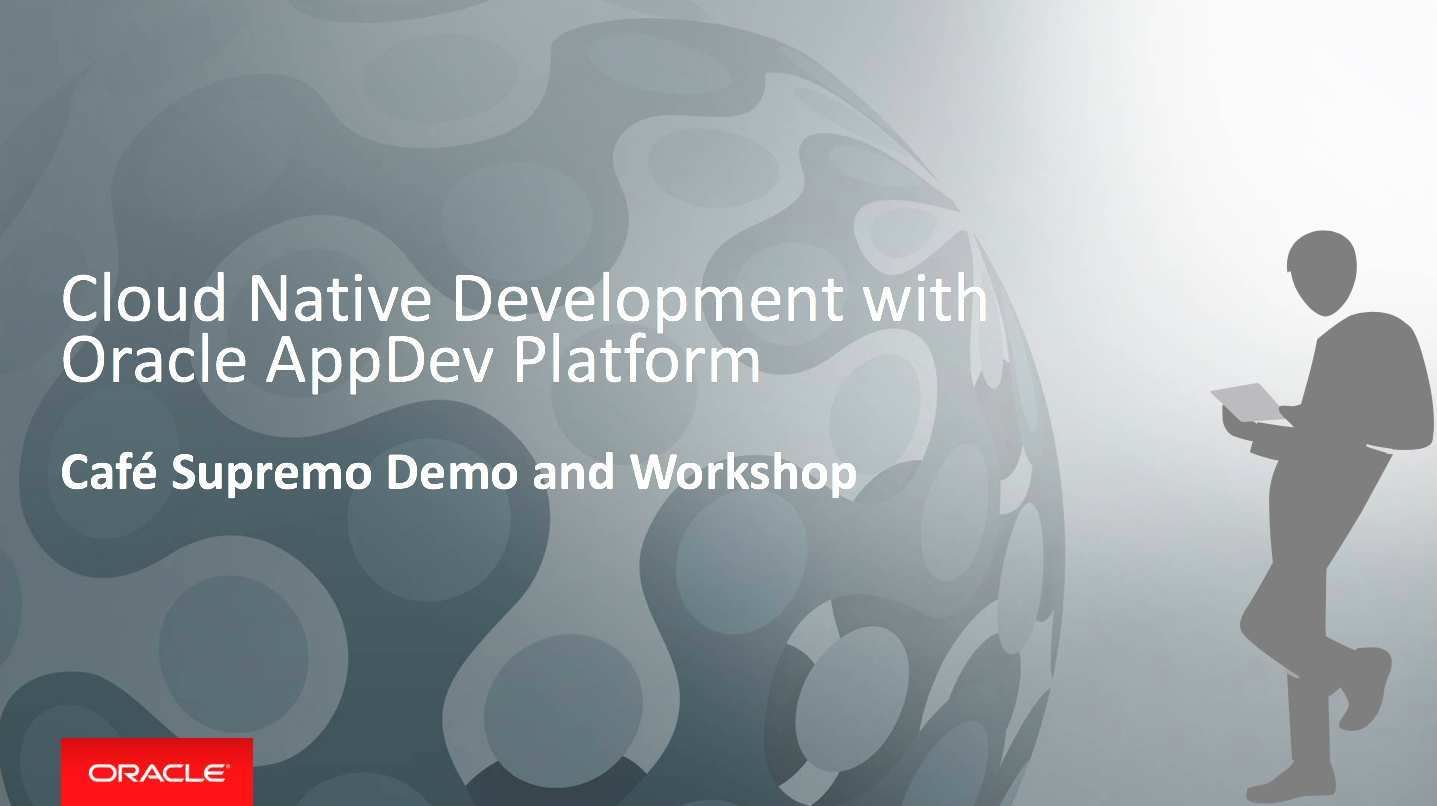
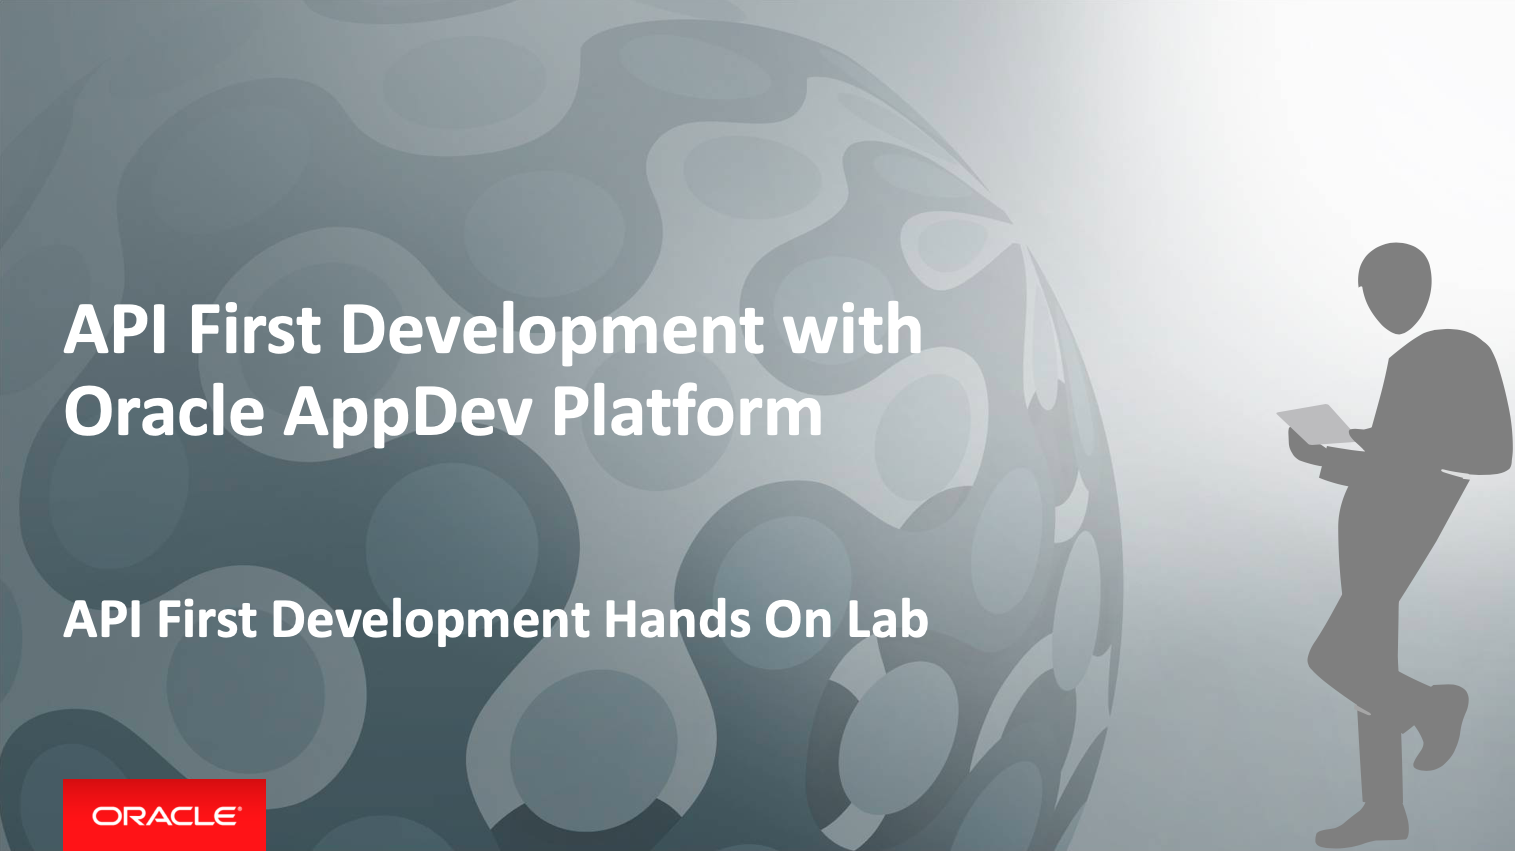
Updated rest of labs to reflect lab 400

diff --git a/README.md b/README.md
@@ -1,35 +1,29 @@
 
-# Cloud Native Development with Oracle AppDev Platform - Café Supremo Demo and Workshop
+# API First Development with Oracle AppDev Platform - API First Development Hands On Lab
 
 ![](images/header01.png)
 
 ## Introduction
 
-This Oracle Cloud project contains the demo script and lab material to demonstrate a typical DevOps workflow of a cloud native application using Oracle AppDev Platform. Participants will be able appreciate and experience how to use Oracle Cloud Services to implement cloud native applications using a real use case scenario based on a loyalty rewards system for a coffe shop. This includes services such as Oracle Developer Cloud Service, Java Cloud Service, Application Container Cloud Service and Database Cloud Service.
+APIs make up the new language for businesses to communicate with each other. As they increase in importance, more responsibility lies on those who build and manage the APIs. Apiary solves the fundamental task of improving API development, but for many companies, meeting those increasing expectations means not only working harder but also streamlining the business process of how work gets done.
 
-The demo and lab will also show how to work with Open Source tools in Oracle Developer Cloud Service for managing your software lifecycle as well as how to build, deploy and promote to different environments. With Continuous Integration and Delivery as core principles, it will illustrate how issues are tracked, managed and released.
+This Oracle Cloud workshop contains the hands on lab material to demonstrate an API First development workflow of a cloud native application using Oracle AppDev Platform. Participants will be able appreciate and experience how to use Oracle Cloud Services to implement cloud native applications using a real use case scenario based on a loyalty rewards system for a coffee shop. This includes services such as Oracle Apiary, Developer Cloud Service, Java Cloud Service, Application Container Cloud Service and Database Cloud Service.
 
-There are two parts to this project, a quick demo and a hands on lab. And you can select the path based on your target audience.
+The lab will also show how to work with Open Source tools in Oracle Developer Cloud Service for managing your software lifecycle as well as how to build, deploy and promote to different environments. With Continuous Integration and Delivery as core principles, it will illustrate how issues are tracked, managed and released.
 
-## Demo
 
-The Demo is good for discovery workshops and meetings with C-level executives, architects and project leads. It takes about 30 minutes to complete. The demo comes in two parts, a guided script that walks through the demo steps and the setup procedure.
+## API First Development Hands On Lab
 
-The [Demo Script](DEMOscript.md) showcases the following:
+The API First Development lab is a good deep dive workshops for architects, project leads and developers. This requires about 3 hours to complete.
 
-*	Continuous Integration and Continuous Delivery through automation in Oracle Developer Cloud Service
-*	Task creation using Oracle Developer Cloud Service Issue tracking system
-*	Working with Open Source tools
-*	Pushing the changes from a remote repository
-*	Scaling up and scaling out of ACCS and JCS
+The [API First Hands On Lab](CICDlab.md) provide a hands on experience in setting up the complete end-to-end CI/CD pipeline on Oracle Cloud Platform.
 
-This requires a working demo that was previously configured. Please follow the [Demo Setup](DEMOsetup.md) instruction prior to running the demo. This will be the same instruction as the CICD Lab.
+On the development side, this will show you how to develop with API First without writing any code:
+* Create an API Blueprint to describe our APIs
+* Test your API against the Apiary Mock Server
+* Generate code examples from Apiary for different languages
 
-## CI/CD Hands On Lab
-
-The CI/CD lab is good for deep dive workshops with architects, project leads and developers. This requires more time to and it takes about 3 hours to complete.
-
-The [CI/CD Hands On Lab]CICDlab.md) provide a hands on experience in setting up the complete end-to-end CI/CD pipeline on Oracle Cloud Platform. This shows you how prepare a Developer Cloud Service for:
+On the CI/CD side, this will show you how to automate your workflow with Developer Cloud Service:
 
 *	Project creation, configuration, and user management
 *	Agile development
@@ -43,18 +37,20 @@ The [CI/CD Hands On Lab]CICDlab.md) provide a hands on experience in setting up 
 
 ## Scenario
 
-You are an application developer who will be developing a brand new cloud native loyalty application for Café Supremo, which will be deployed to the Oracle Cloud. The reason why you want to adopt a cloud native approach has partially been driven by the need to go to market quicker, by delivering new features more frequently, but also more reliably. And you are able to do this by developing Microservices that has less dependencies on other services, as well as the footprint being smaller and easier to deploy. What’s also attractive with Microservices is that you can use the best programming language for the job. So, you could end up with a polyglot application. To be able to deliver this new style of cloud native application approach, you will need to adopt the Agile development practice to continuously integrate and deliver these services and features. The application basically consists of two parts:
+You are an application developer who will be developing a brand new cloud native loyalty application for Café Supremo, which will be deployed to the Oracle Cloud. The reason why you want to adopt a cloud native approach has partially been driven by the need to go to market quicker, by delivering new features more frequently, but also more reliably. And you are able to do this by developing Microservices that has less dependency on other services, as well as the footprint being smaller and easier to deploy. What’s also attractive with Microservices is that you can use the best programming language for the job. So, you could end up with a polyglot application. To be able to deliver this new style of cloud native application approach, you will need to adopt the Agile development practice to continuously integrate and deliver these services and features. The application basically consists of two parts:
 
 1. The user interface that is built using Oracle JET framework, packaged as a WAR file and deployed to a Java Cloud Service instance.
-2. The Reward Collection backend service, which is a Microservice written in Node.js, packaged as a ZIP file and deployed to an Application Container Cloud Service instance.
+2. The Reward Service backend service, which is a Microservice written in Node.js, packaged as a ZIP file and deployed to an Application Container Cloud Service instance.
 3. The customer data is stored in the Database Cloud Service and the data is cached in Application Container Cache.
 
 
 ![](images/architecture.png)
 
+You will use Apiary to write your API for the Reward Service backend and generate the API Blueprint. This API will be called by the client JET UI frontend. Once the API Blueprint is ready, you will use the Mock Server to test your API. We can also use the Mock Server for client application development & testing.
+
 You will use DevCS as the core CI/CD software lifecycle management tool for your Agile development and DevOps pipeline. A developer could use their favourite IDE or editor to write their code. In this scenario a developer will be using an open source editor called Brackets which can synchronise the code changes with the Git repository in Developer Cloud Service.
 
-Different developers or teams can work independently on the JET UI frontend and the Node.js Rewards Service backend. The two parts can be integrated and delivered continuously through Oracle Developer Cloud Service.
+Different developers or teams can work independently on the JET UI frontend and the Node.js Rewards Service backend from the API Blueprint. The two parts can be integrated and delivered continuously through Oracle Developer Cloud Service.
 
 A project manager will be logging into Developer Cloud Service and manage the Café Supremo project from issue tracking to tracking the build, deploy and release progress.
 
@@ -67,10 +63,5 @@ A project manager will be logging into Developer Cloud Service and manage the Ca
 - *[Click HERE for Brackets installation detail](BRACKETSinstall.md)*
 - *[Click HERE for Git installation details](GITCLIENTinstall.md)*
 
-
-
-[Go to Demo Setup](DEMOsetup.md)
-
-or
 
 [Go to CI/CD Hands On Lab](CICDlab.md)

diff --git a/100-PREPARElab.md b/100-PREPARElab.md
@@ -4,6 +4,8 @@
 
 ![](images/header05.png)
 
+Before we start designing our Reward Service API we need to prepare our cloud environments. This is necessary because we would need the environments to run our application as well as to build our CI/CD pipeline.
+
 During this part of the lab, you will take on the **DevOps Engineer Persona**. You will provision the required cloud services for Developer Cloud Service to build and deploy to a WebLogic Server cluster in Java Cloud Service and Application Container Cloud Service instance. You must have access to a:
 
 - GitHub account
@@ -14,7 +16,7 @@ The current release of the application no longer requires a database for storing
 An Oracle Database Cloud Service is still required by Java Cloud Service to host the Oracle Fusion Middleware component schemas used by Oracle Java Required Files (JRF).
 
 
-### About This Exercise
+## About This Exercise
 
 In this exercise, we will:
 - Create and configure a Database Cloud Service (DBCS) instance to hold the JCS (WebLogic) configuration
@@ -377,10 +379,10 @@ You have now created a Build VM for for your build jobs. The initial status will
   ![](images/24.png)
 
 
-You have finished this lab section.
+### You have finished this lab section.
 
 [Proceed to Lab 200: Create CI/CD Pipeline in DevCS](200-DEVCSlab.md)
 
 or
 
-[Return to Cafe Supremo Home](README.md)
+[Return to API First Home](README.md)

diff --git a/400-CICDlab.md b/400-CICDlab.md
@@ -1,6 +1,6 @@
 
 
-# Lab 300: Putting It All Together - Continuous Integration and Delivery
+# Lab 400: Putting It All Together - Continuous Integration and Delivery
 
 ![](images/header07.png)
 
